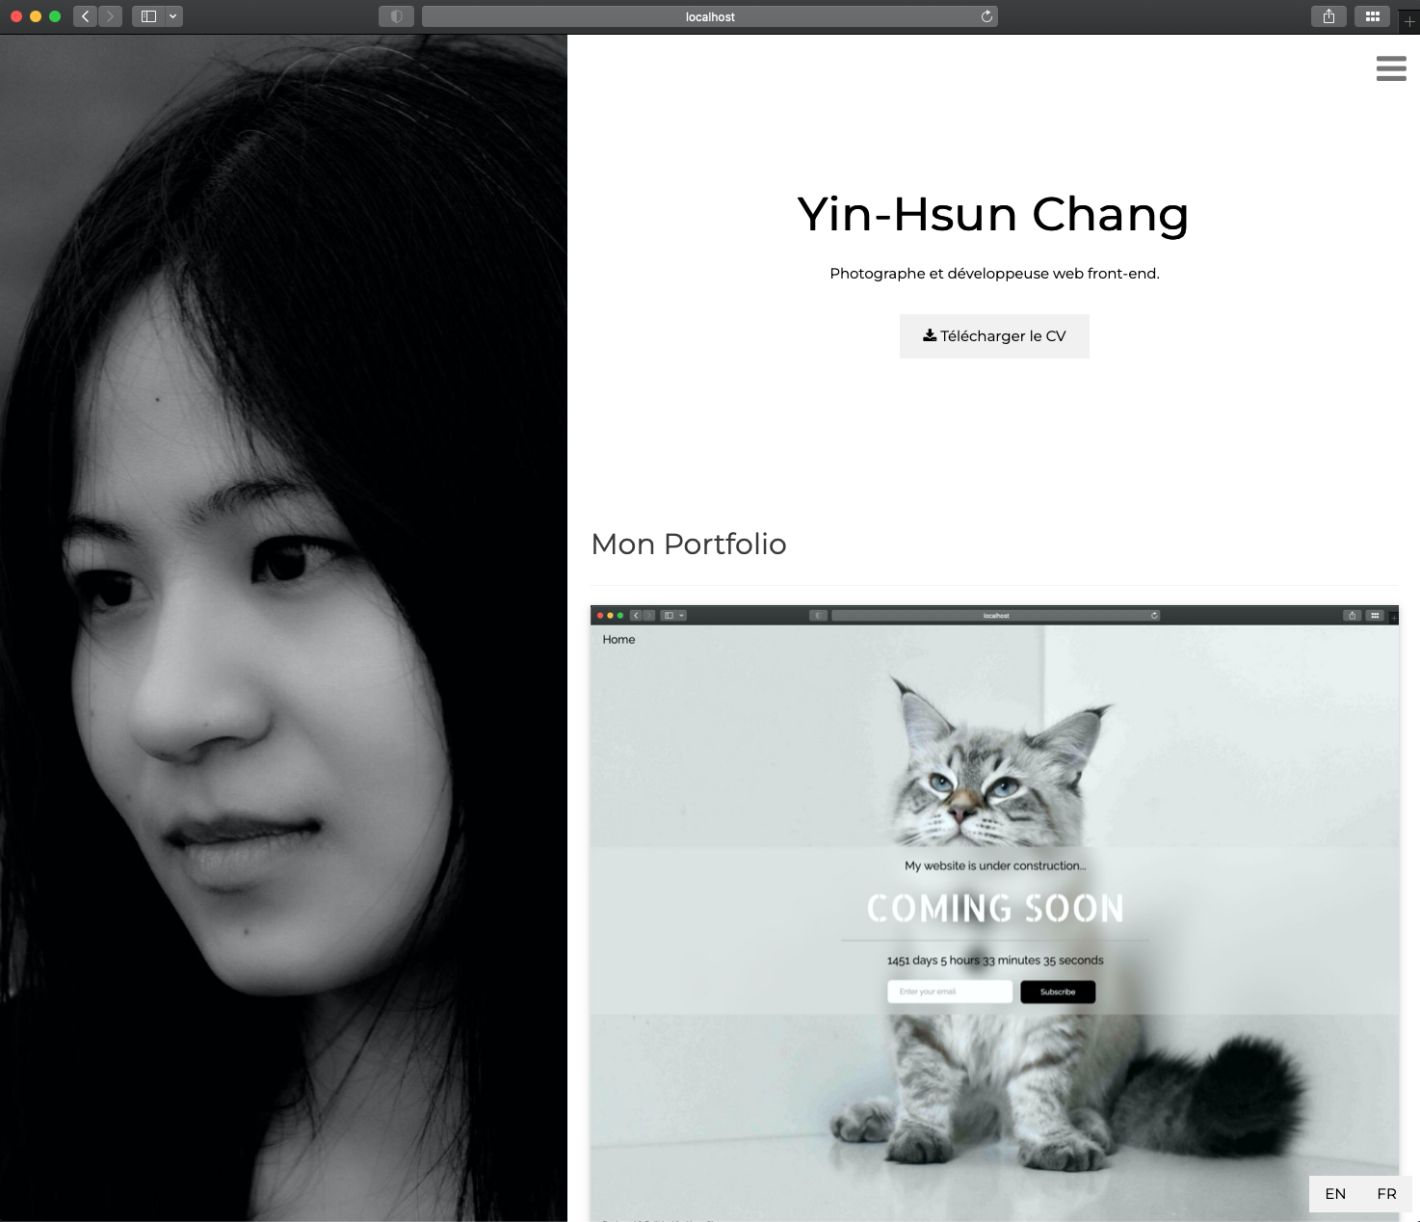
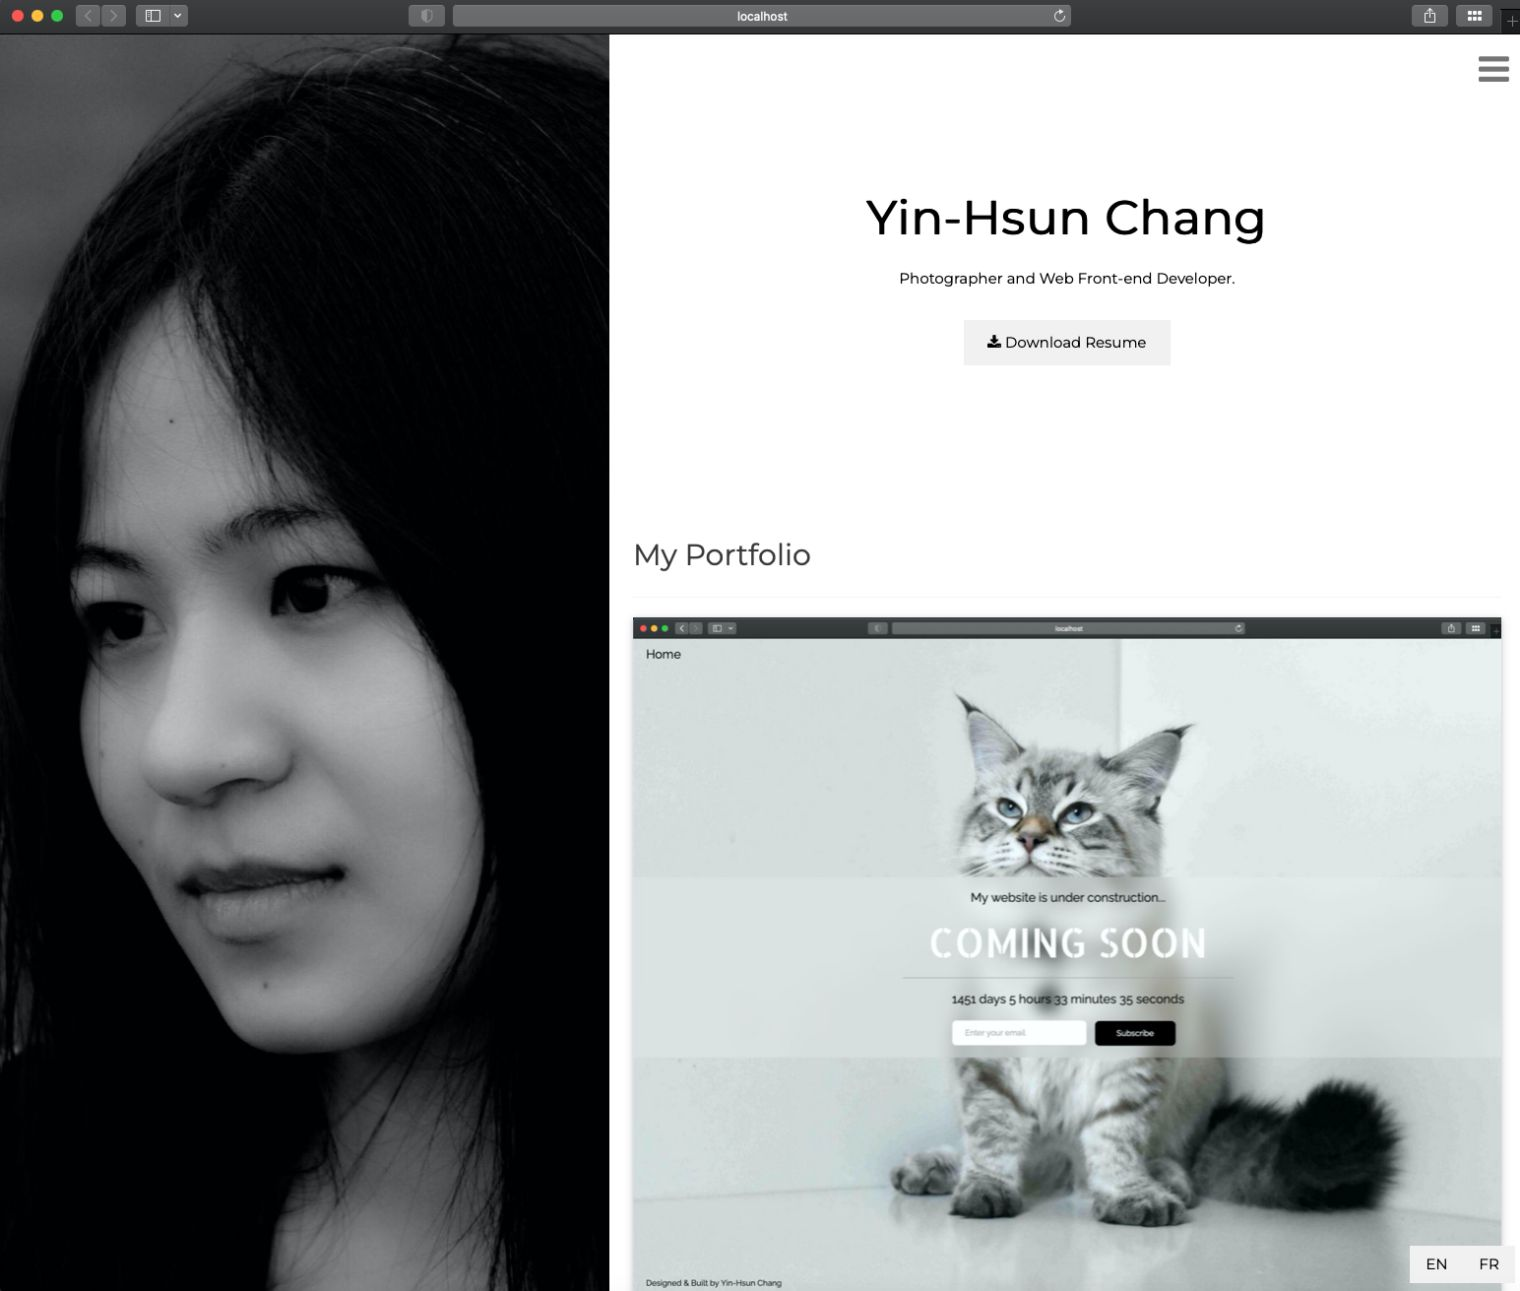
Add third project to portfolio

diff --git a/src/components/Portfolio.tsx b/src/components/Portfolio.tsx
@@ -1,7 +1,7 @@
 import { useTranslation } from "react-i18next";
 import comingSoon from '../assets/coming-soon.jpg';
 import catModel from '../assets/cat-model.jpg';
-
+import catModel2 from '../assets/cat-model-v2.jpg';
 
 const Portfolio = () => {
   const { t } = useTranslation();
@@ -30,6 +30,18 @@ const Portfolio = () => {
   <p style={{textAlign:"center"}}><span className="large margin-right"><b>{t("project.title2")}</b></span></p>
   <p style={{textAlign:"center"}}><span>{t("project.tech2")}</span></p>
   <p className="panel leftbar margin">{t("project.des2")}</p>
+  <br />
+  </p>
+
+  <br />
+  
+  <p className="card zoom">
+  <a href="https://yinhsunchang.github.io/cat-model-v2" target="_blank">
+  <img src={catModel2} alt="Preview" style={{width:'100%'}} />
+  </a>
+  <p style={{textAlign:"center"}}><span className="large margin-right"><b>{t("project.title3")}</b></span></p>
+  <p style={{textAlign:"center"}}><span>{t("project.tech3")}</span></p>
+  <p className="panel leftbar margin">{t("project.des3")}</p>
   <br />
   </p>
   </div>
